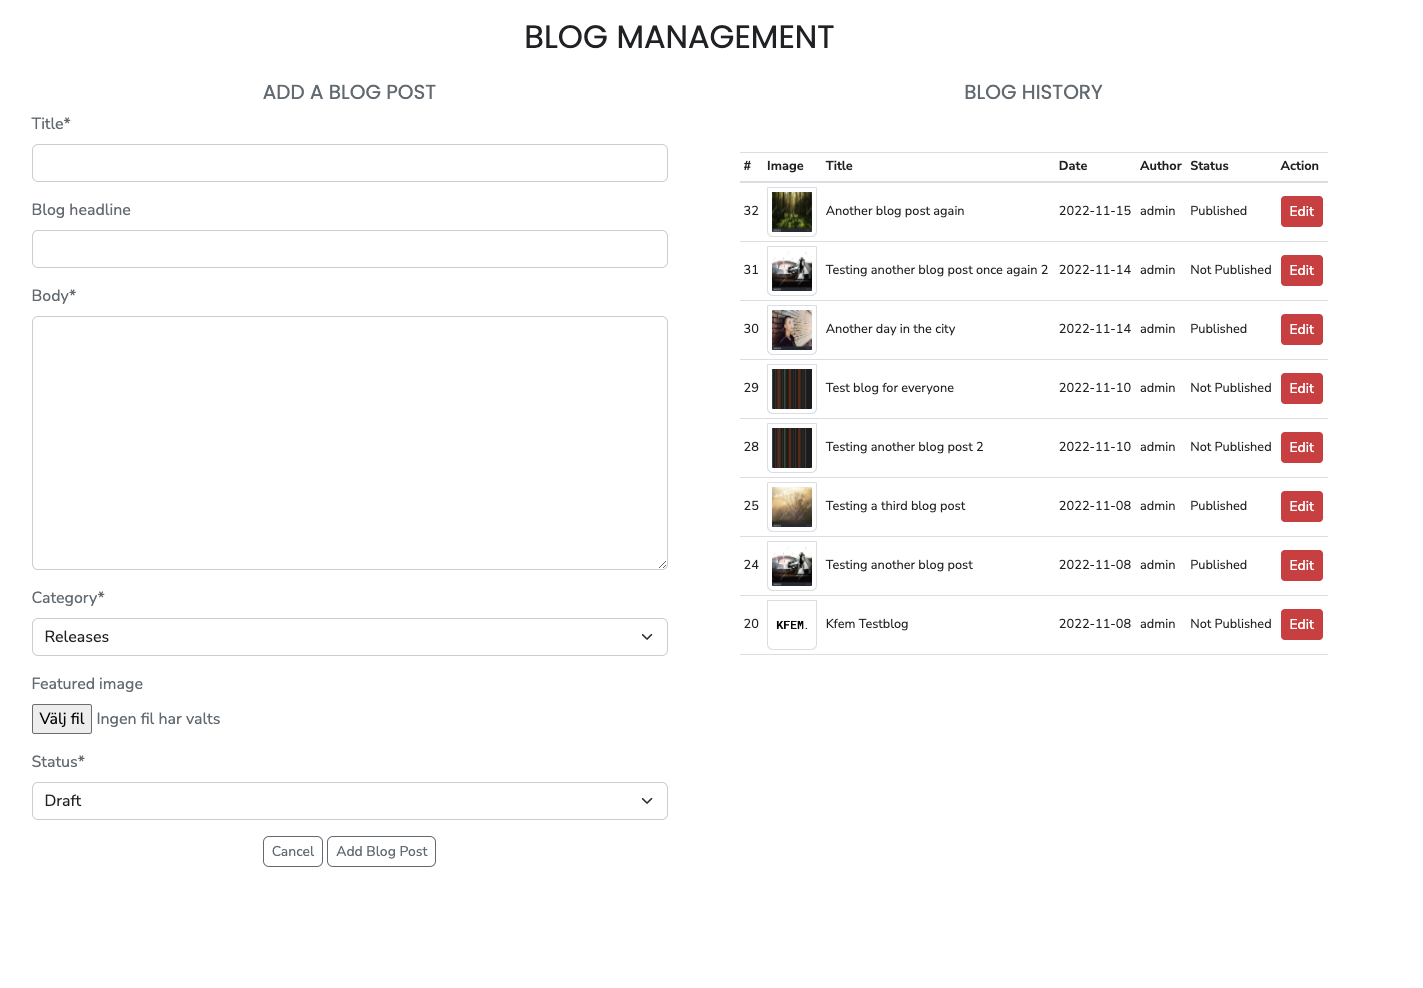
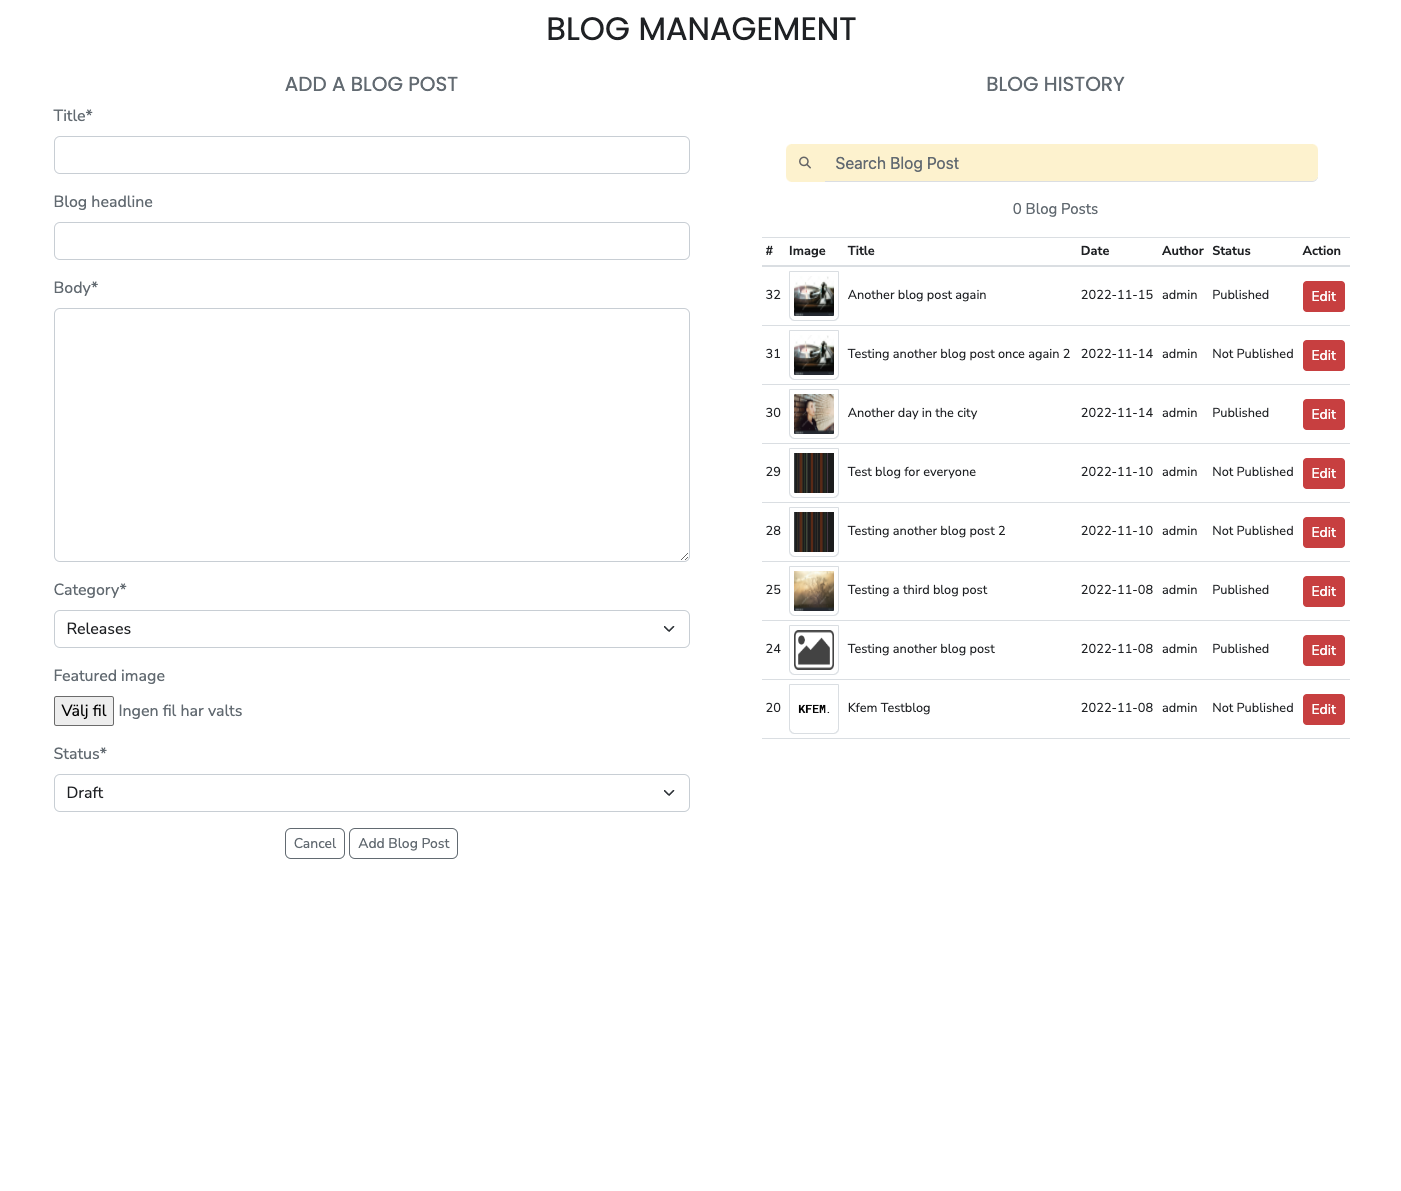
Add new screenshots to blog management and product management in readme file

diff --git a/README.md b/README.md
@@ -390,7 +390,7 @@ When a superuser / administrator is logged in the **my account** gets more avila
 
 </details><br/>
 
-<details><summary><b>Navigation - Admin Logged In - Product Management - Edit</b></summary>
+<details><summary><b>Navigation - Admin Logged In - Blog Management - Edit</b></summary>
 
 ![Navigation - My Account - Blog Management - Edit](readme/assets/images/admin_blog_management_edit.png)
 
@@ -399,6 +399,18 @@ When a superuser / administrator is logged in the **my account** gets more avila
 <details><summary><b>Navigation - Admin Logged In - Blog Management - Delete</b></summary>
 
 ![Navigation - My Account - Blog Management - Delete](readme/assets/images/admin_blog_management_delete.png)
+
+</details><br/>
+
+<details><summary><b>Navigation - Admin Logged In - Blog Management - Search</b></summary>
+
+![Navigation - My Account - Blog Management - Search](readme/assets/images/admin_blog_management_search.png)
+
+</details><br/>
+
+<details><summary><b>Navigation - Admin Logged In - Blog Management - Search Results</b></summary>
+
+![Navigation - My Account - Blog Management - Search Results](readme/assets/images/admin_blog_management_search_results.png)
 
 </details><br/>
 
